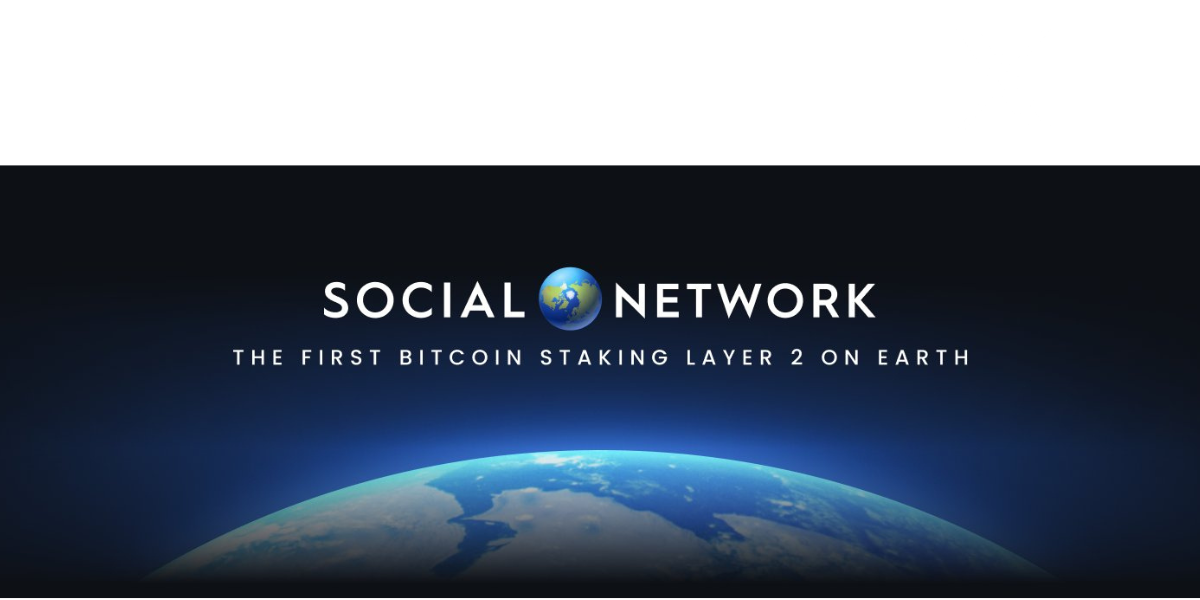
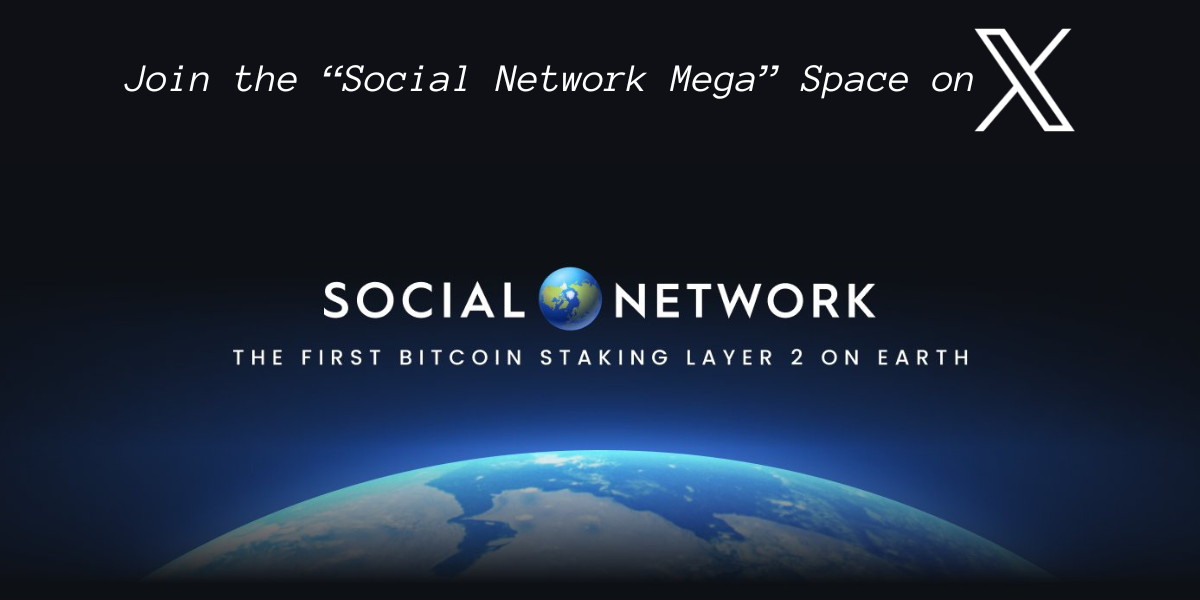
Small fixes to news and blog

Changed region(s): [[0.0, 0.0, 1.0, 0.3], [0.0, 0.99, 1.0, 1.0]]

diff --git a/content/blog/cloud_provider/index.md b/content/blog/cloud_provider/index.md
@@ -26,7 +26,7 @@ But a new way forward has emerged. Decentralized and edge computing solutions, s
 
 The best part? We can achieve it together.
 
-### Be a cloud service provider, not just a cloud consumer.  
+### **Be a cloud service provider, not just a cloud consumer.**
 
 With ThreeFold’s autonomous technology, anyone can be a cloud service provider without any technical expertise. You can be the Internet, for yourself and for those around you. 
 
@@ -42,9 +42,7 @@ Finally, by contributing to a more sustainable edge cloud, you're not only ensur
 
 Best of all, you're not just investing in technology - you're investing in a sustainable, connected and rewarding future, powered by the people, for the people. It's ultimately good for you, good for the people around you, and good for the planet. 
 
-<br/>
-
-### How to become a cloud provider?
+### **How to become a cloud provider?**
 
 ThreeFold enables you to become a cloud service provider by hosting a 3node, bringing local capacity where people need it most and providing compute, storage and AI capabilities. After setting up this node, being verified and sharing capacity on our grid, your contribution is rewarded. 
 

diff --git a/content/newsroom/social_network_mega_space/index.md b/content/newsroom/social_network_mega_space/index.md
@@ -1,8 +1,8 @@
 ---
 id: social_network_mega_space
-title: 🎙 X (Twitter) Space in ~1 Hour
+title: 🎙 X (Twitter) Space with Social Network
 image_caption: social_network_mega_space
-description: Social Network Mega Space with Kristof (co-founder) and Florian (biz dev)
+description: Join the Social Network Mega Space featuring Kristof (co-founder) and Florian (biz dev).
 date: 2024-03-25
 taxonomies:
     people: [bernadette_amanda_caster]
@@ -16,9 +16,10 @@ Join the Social Network Mega Space at 5pm UTC.
 
 <br/>
 
-https://twitter.com/i/spaces/1BdxYrPBpAAKX
+Space Link [here](https://twitter.com/i/spaces/1BdxYrPBpAAKX).
 
 </br>
+
 Social Network is the first Bitcoin Staking Layer 2 on earth and one of our core utilization partners. Social Network will be integrated with and enhanced by ThreeFold technologies. This includes, but is not limited to, ThreeFold’s decentralized cloud – featuring Quantum Safe Storage and the Mycelium Network – as well as decentralized computation, and Zero OS.
 
 </br>

diff --git a/content/newsroom/minting_and_farming_rewards_updates/index.md b/content/newsroom/minting_and_farming_rewards_updates/index.md
@@ -2,7 +2,7 @@
 id: minting_and_farming_rewards_updates
 title: 📣 Minting and Farming Rewards Updates 
 image_caption: CMinting And Farming Updates
-description: A new Grid Enhancement Proposal (GEP) and updates on Farming rewards, click here to know more
+description: There is a new Grid Enhancement Proposal (GEP) around minting and farming rewards. Dig in and bring your feedback!
 date: 2024-03-29
 taxonomies:
     people: [bernadette_amanda_caster]

diff --git a/content/newsroom/gep_vote_community_calls_update/index.md b/content/newsroom/gep_vote_community_calls_update/index.md
@@ -2,7 +2,7 @@
 id: gep_vote_community_calls_update
 title: ✅ GEP Vote is Live + Community Call Updates 
 image_caption: gep_vote_community_calls_update
-description: We are pleased to share that the vote on last week's proposed GEP is now live.
+description: We are pleased to share that the vote on last week's proposed GEP is now live. Encouraging all farmers to vote now!
 date: 2024-04-06
 taxonomies:
     people: [bernadette_amanda_caster]

diff --git a/content/newsroom/march_community_call_followup/index.md b/content/newsroom/march_community_call_followup/index.md
@@ -2,7 +2,7 @@
 id: march_community_call_followup
 title: 💡 Community Call Follow Up - Q&A
 image_caption: Community call followup 
-description: Answers to all your questions from our March Community call is here
+description: Answers to all your questions from our March Community call are here!
 date: 2024-03-23
 taxonomies:
     people: [bernadette_amanda_caster]
